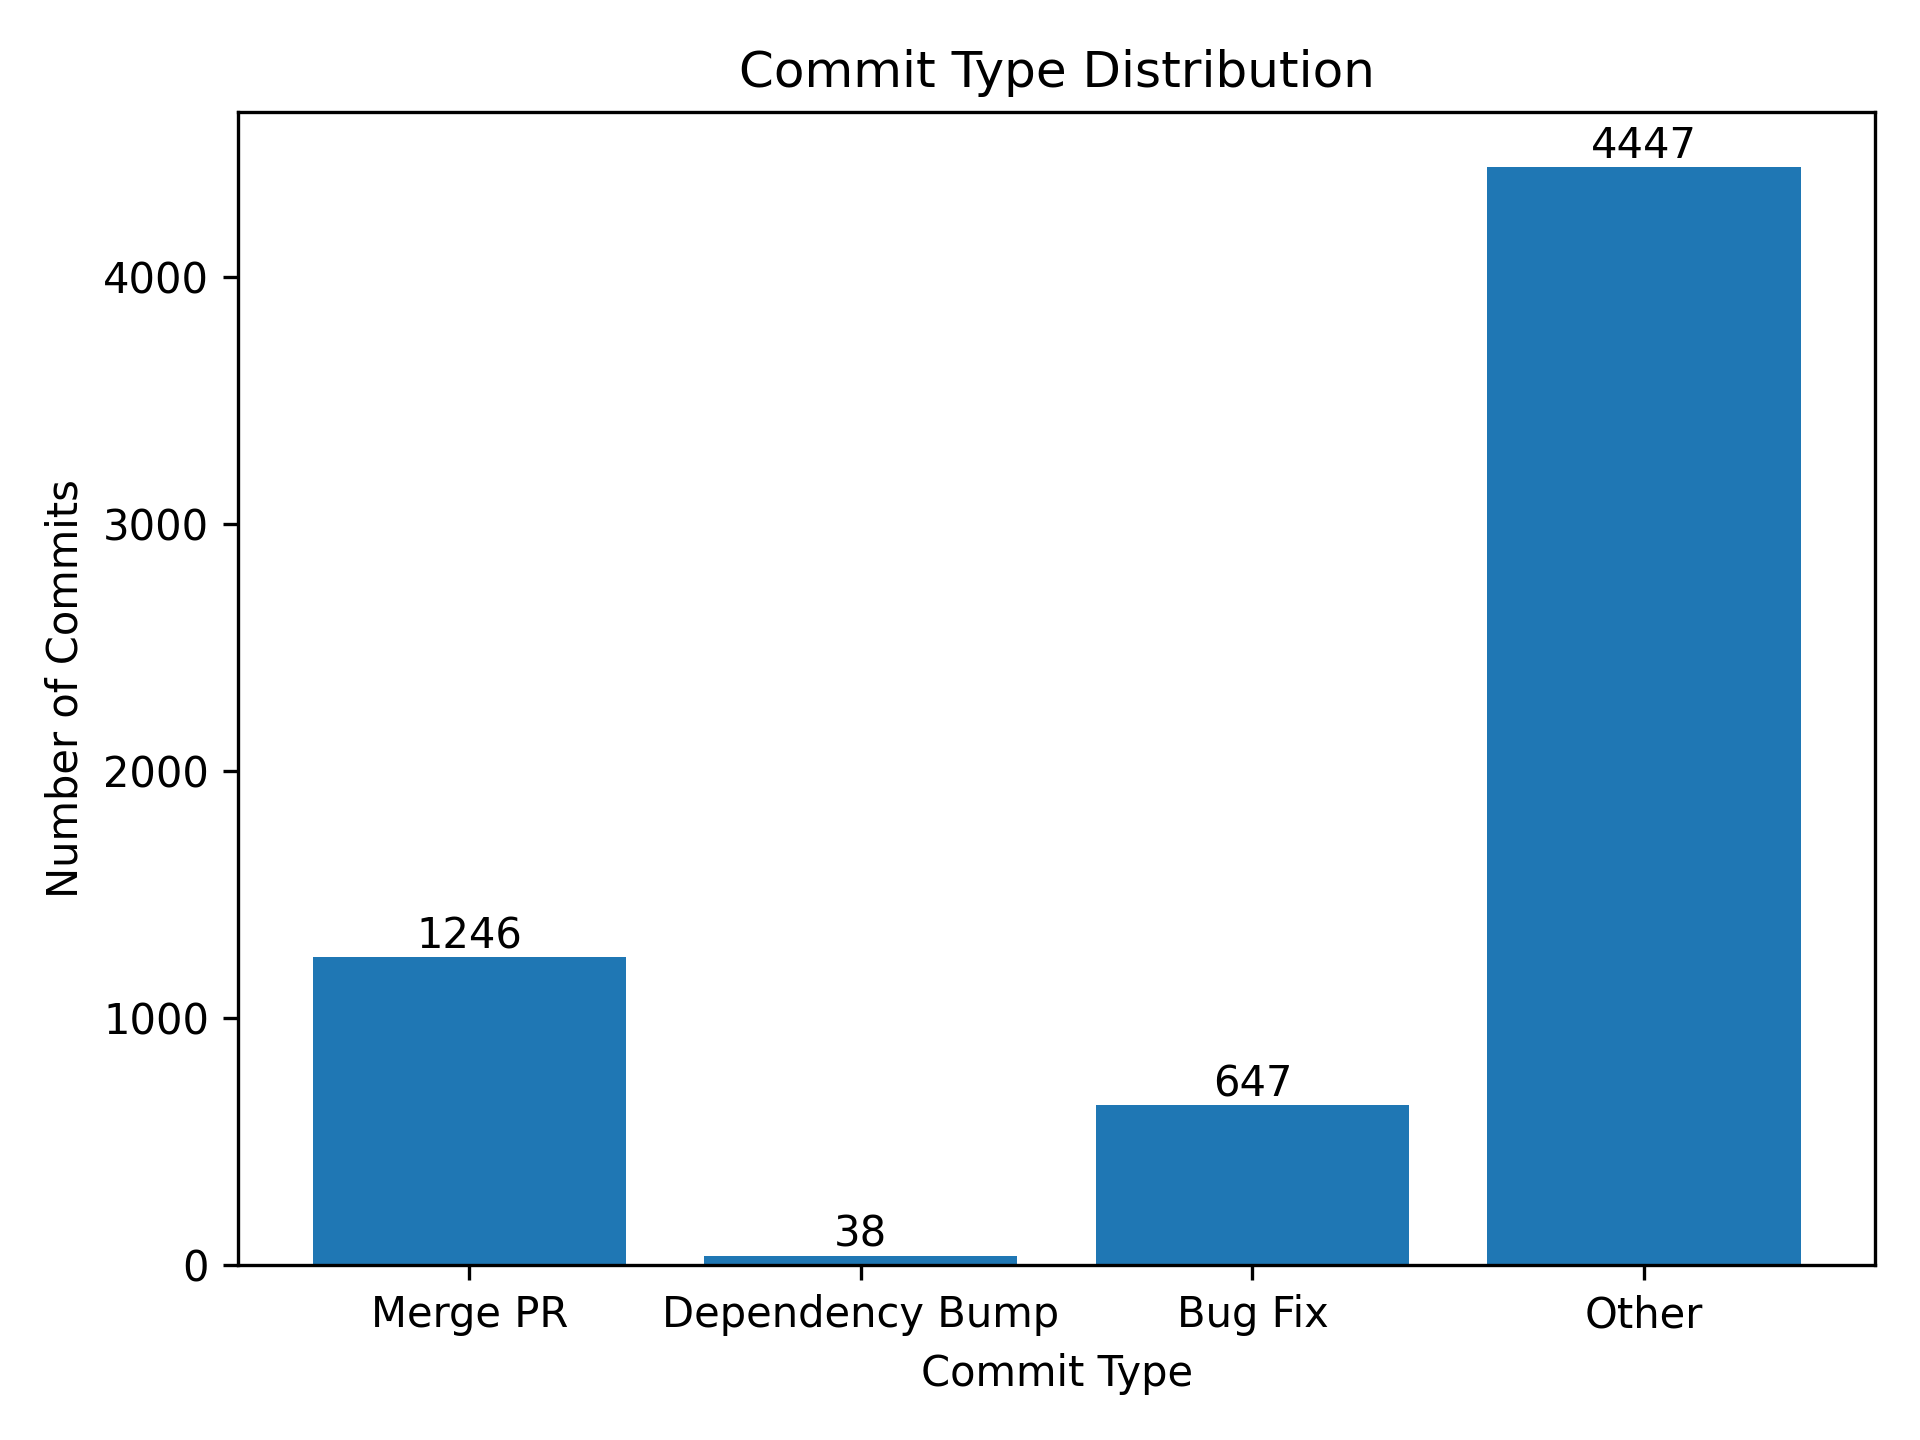
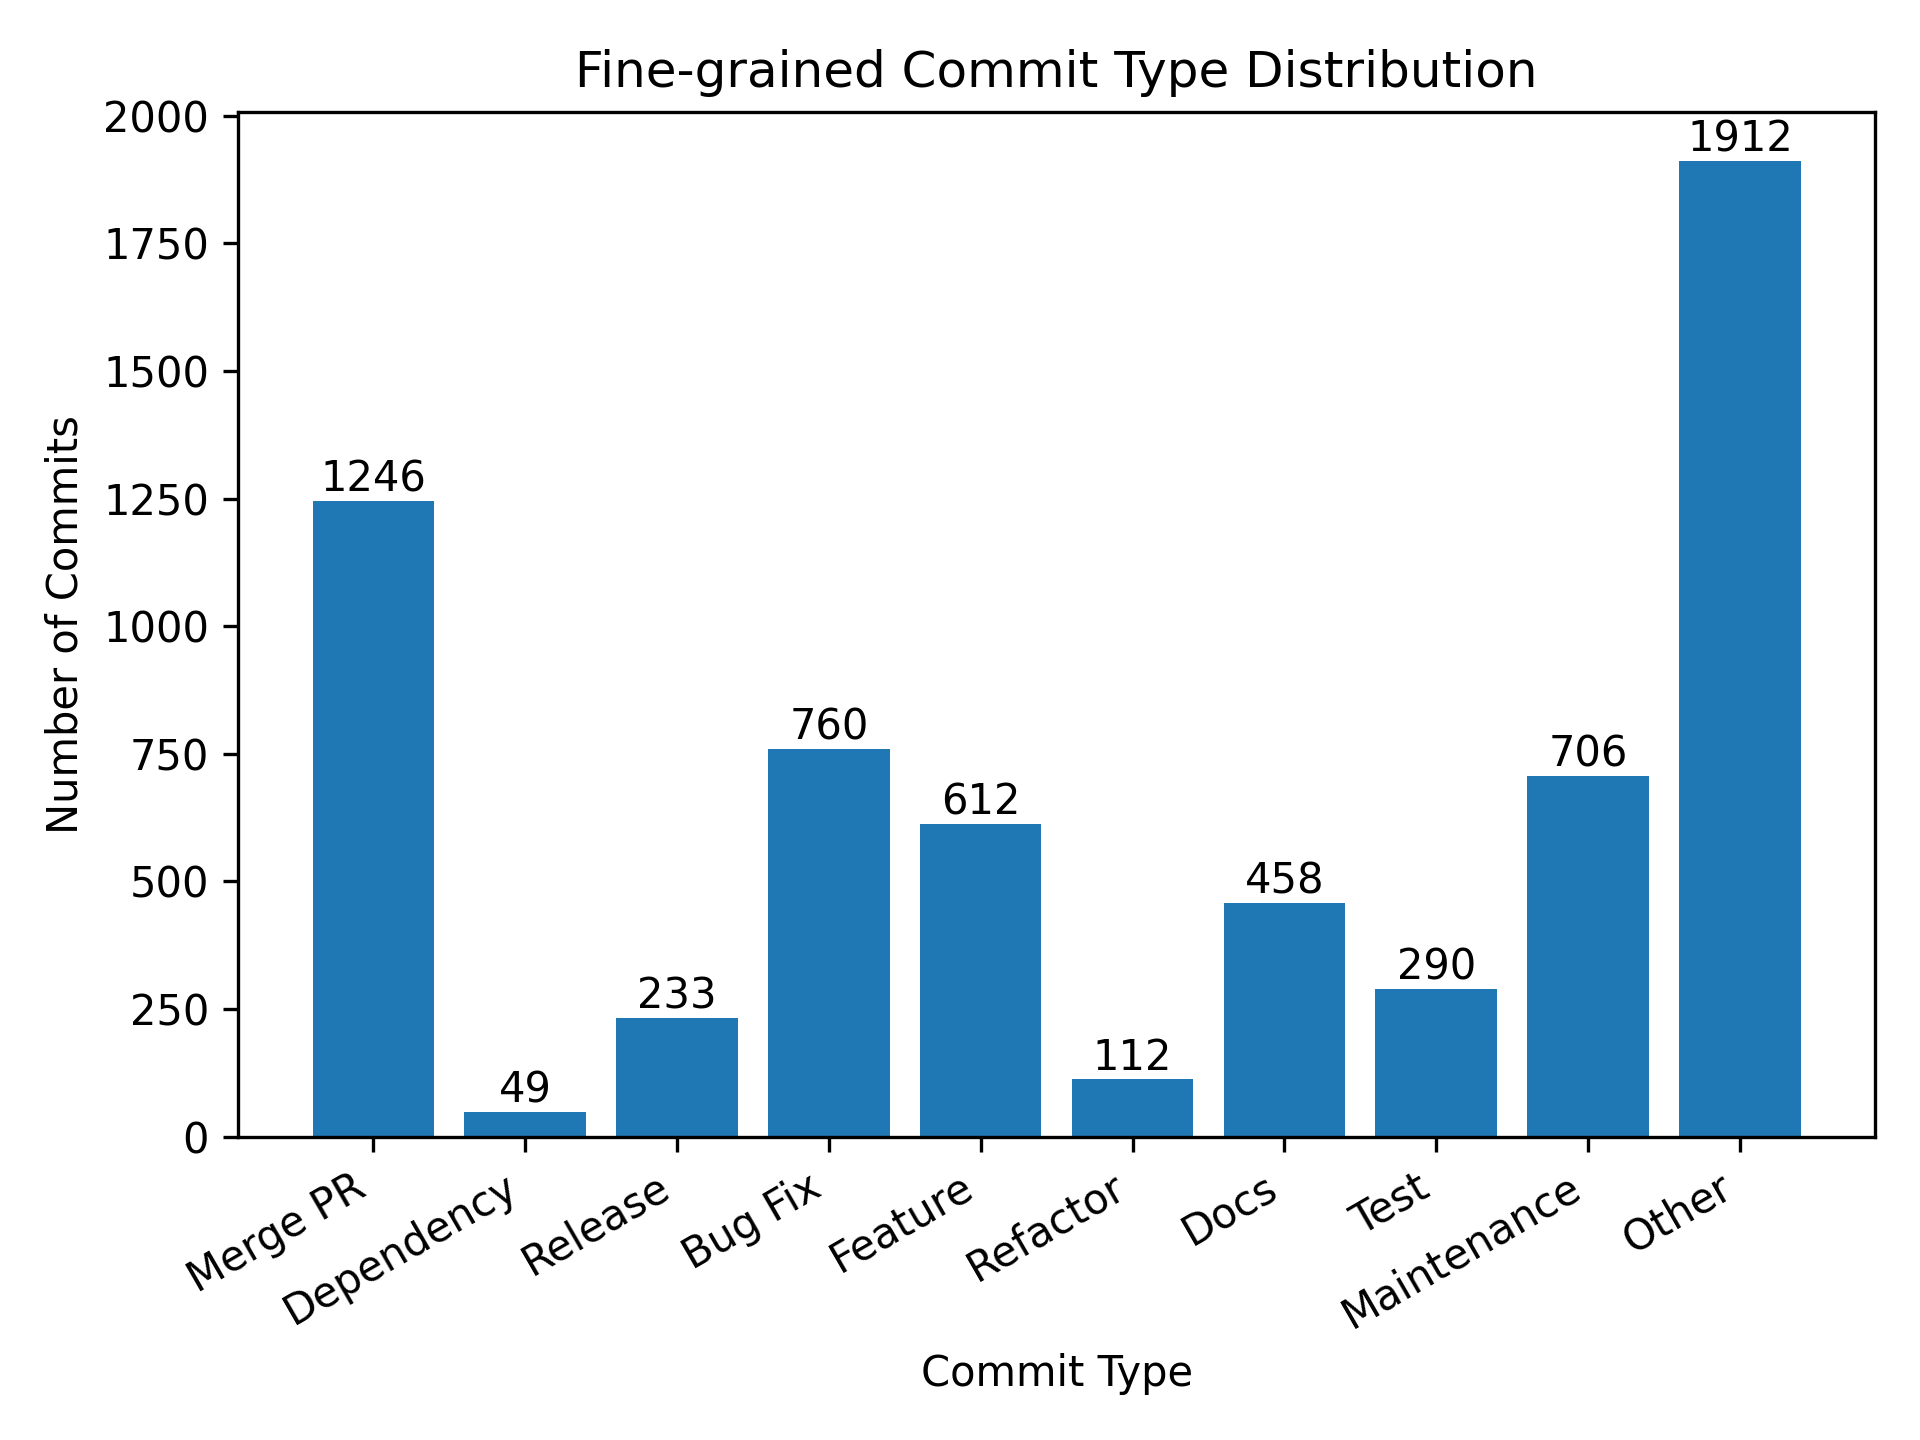
优化分析结果

diff --git a/analyze_commits.py b/analyze_commits.py
@@ -9,16 +9,15 @@ output_dir.mkdir(exist_ok=True)
 
 commits = []
 
-# ================== 读取数据 ==================
+# 读取数据
 
 with open(file_path, "r", encoding="utf-8") as f:
-    header = f.readline()  # 跳过表头
+    header = f.readline() 
     for line in f:
         line = line.strip()
         if not line:
             continue
 
-        # 只分割前三个逗号
         parts = line.split(",", 3)
         if len(parts) < 4:
             continue
@@ -29,7 +28,7 @@ with open(file_path, "r", encoding="utf-8") as f:
             "message": parts[3].strip()
         })
 
-# ================== 1. 作者提交次数（Top 10） ==================
+# 作者提交次数（只记录前十名）
 
 author_counter = Counter(c["author"] for c in commits)
 top_authors = author_counter.most_common(10)
@@ -51,32 +50,70 @@ plt.tight_layout()
 plt.savefig(output_dir/"top_10_contributors.png", dpi=300)
 plt.close()
 
-# ================== 2. 提交类型分布 ==================
+# 提交类型分布
 
-merge_count = 0
-bump_count = 0
-fix_count = 0
-other_count = 0
+merge = dependency = bugfix = feature = 0
+refactor = docs = test = release = maintenance = other = 0
 
 for c in commits:
     msg = c["message"].lower()
-    if msg.startswith("merge pull request"):
-        merge_count += 1
-    elif msg.startswith("bump"):
-        bump_count += 1
-    elif "fix" in msg or "bug" in msg:
-        fix_count += 1
-    else:
-        other_count += 1
 
-types = ["Merge PR", "Dependency Bump", "Bug Fix", "Other"]
-type_counts = [merge_count, bump_count, fix_count, other_count]
+    if msg.startswith("merge pull request"):
+        merge += 1
+    elif "bump" in msg or "dependabot" in msg:
+        dependency += 1
+    elif "release" in msg or msg.startswith("v"):
+        release += 1
+    elif "fix" in msg or "bug" in msg or "error" in msg:
+        bugfix += 1
+    elif "add" in msg or "feature" in msg or "support" in msg or "implement" in msg:
+        feature += 1
+    elif "refactor" in msg or "cleanup" in msg or "restructure" in msg:
+        refactor += 1
+    elif "doc" in msg or "docs" in msg or "readme" in msg:
+        docs += 1
+    elif "test" in msg or "ci" in msg or "workflow" in msg:
+        test += 1
+    elif any(k in msg for k in [           # 将日常维护等计入此类
+    "update", "improve", "change", "adjust", "remove",
+    "minor", "tweak", "simplify", "optimize", "handle", "use"
+    ]):
+        maintenance += 1
+    else:
+        other += 1
+
+types = [
+    "Merge PR",
+    "Dependency",
+    "Release",
+    "Bug Fix",
+    "Feature",
+    "Refactor",
+    "Docs",
+    "Test",
+    "Maintenance",
+    "Other"
+]
+
+type_counts = [
+    merge,
+    dependency,
+    release,
+    bugfix,
+    feature,
+    refactor,
+    docs,
+    test,
+    maintenance,
+    other
+]
 
 plt.figure()
 bars = plt.bar(types, type_counts)
 plt.xlabel("Commit Type")
 plt.ylabel("Number of Commits")
-plt.title("Commit Type Distribution")
+plt.title("Fine-grained Commit Type Distribution")
+plt.xticks(rotation=30, ha="right")
 for bar, count in zip(bars, type_counts):
     height = bar.get_height()
     plt.text(bar.get_x() + bar.get_width()/2, height + 0.5,
@@ -85,12 +122,13 @@ plt.tight_layout()
 plt.savefig(output_dir/"commit_type.png", dpi=300)
 plt.close()
 
-# ================== 3. 按月份提交统计 ==================
+
+
+# 按月份提交统计
 
 yearly_counter = Counter()
 
 for c in commits:
-    # 提取年份 YYYY
     year = c["time"][:4]
     yearly_counter[year] += 1
 
